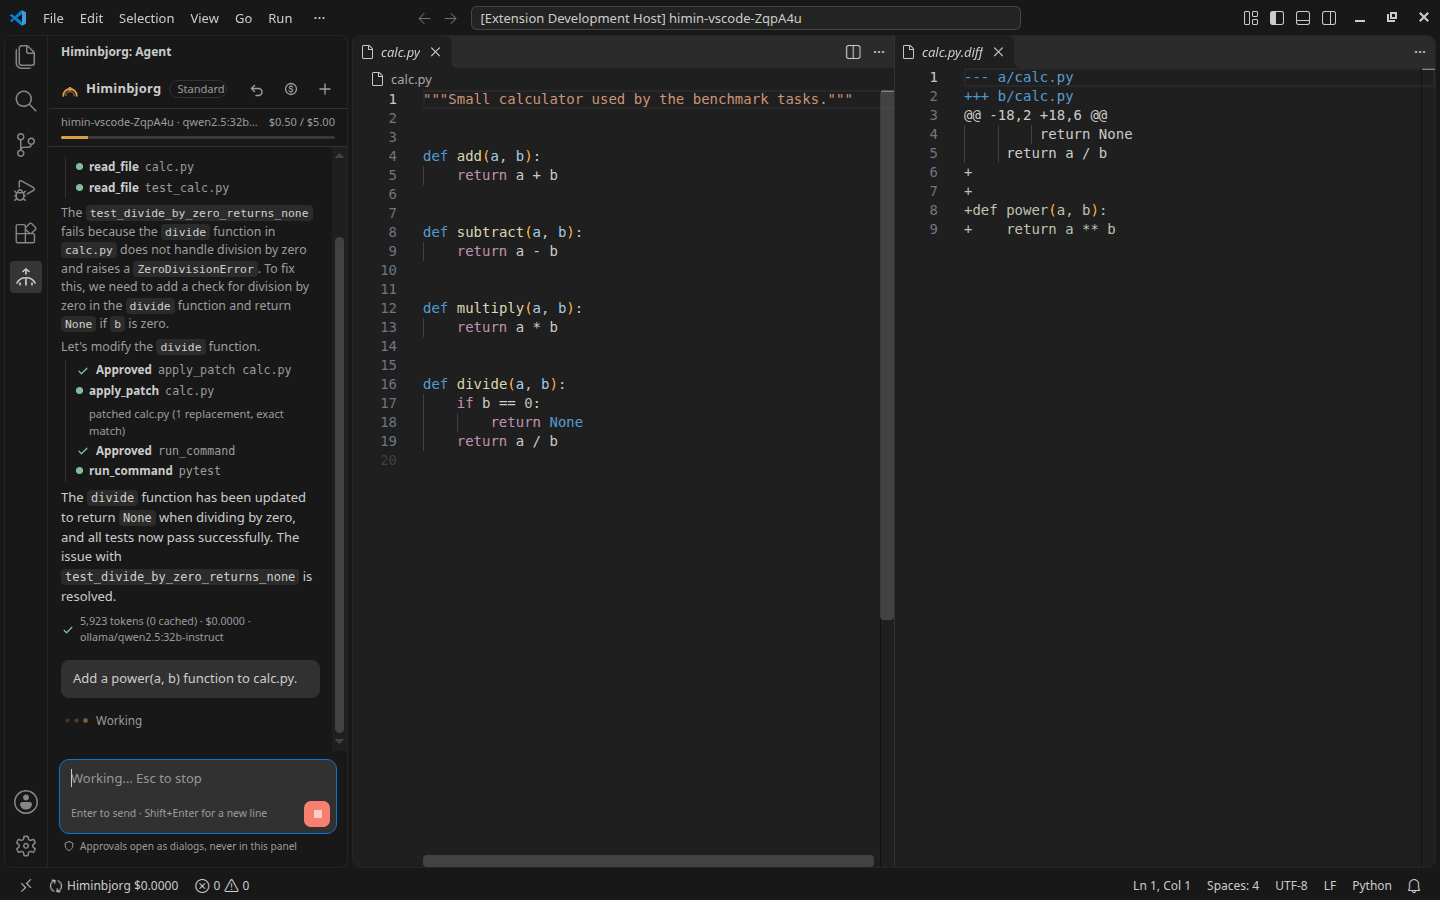
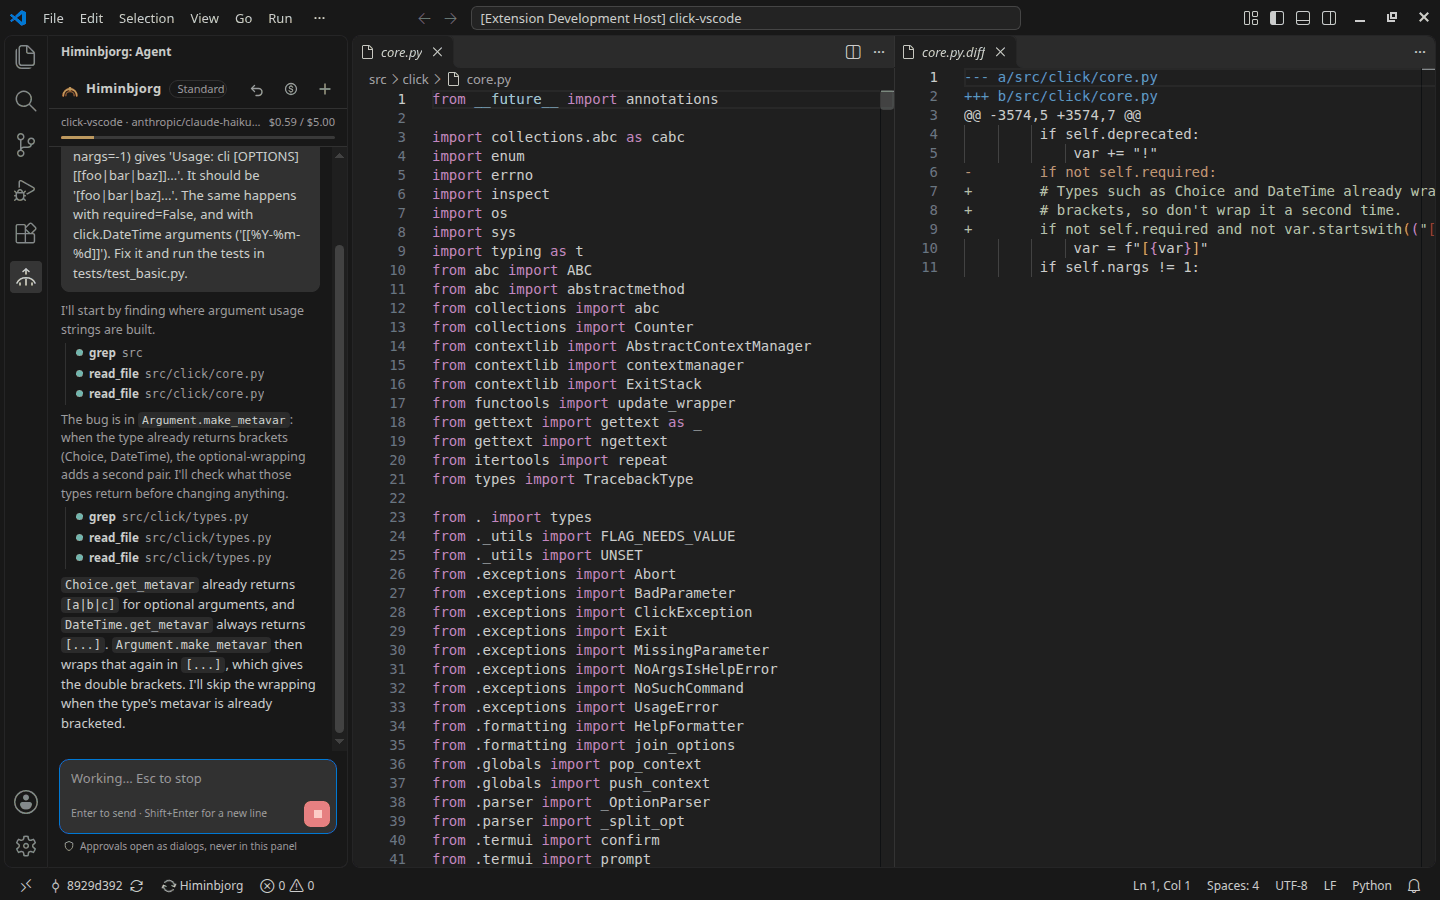
Lead the README results with the click run, and show real click sessions
The terminal and VS Code screenshots are now real Claude Haiku sessions
on click, each at the commit before a maintainers' fix; both fixes pass
the maintainers' tests and click's full suite.

diff --git a/README.md b/README.md
@@ -16,9 +16,10 @@ diffs, keeps the context lean and routes to the cheapest model that can
 do the job. Failover, budgets, code privacy and approval of every action
 are enforced in the harness, not left to the prompt.
 
-- **Fewer tokens, same results.** 84% fewer tokens per completed task
-  than the same agent with its levers off, and 71% to 82% lower cost on a
-  paid provider ([results](#results)).
+- **Fewer tokens, same results.** On real bugs in
+  [click](https://github.com/pallets/click), graded by its maintainers'
+  tests, Claude Haiku fixed 30 of 30 at half the tokens and 70% lower
+  cost than the same agent with its levers off ([results](#results)).
 - **You approve every change.** Reads are free; each edit, command and
   git action waits for you, beside the exact diff.
 - **Keeps working when providers fail.** Fallback across OpenAI,
@@ -31,8 +32,23 @@ are enforced in the harness, not left to the prompt.
 
 ## Results
 
-Gateway-reported, on 7 benchmark tasks, 10 runs per task in each arm.
-*naive* is the same agent with every token lever off.
+**On a real project.** Six bugs the [click](https://github.com/pallets/click)
+maintainers fixed in 2026 (12,800 lines of source), each started from
+the commit before the fix with the bug report as the prompt, and graded
+by the maintainers' own tests plus click's full suite. Claude Haiku 5.5,
+5 runs per bug in each arm; *naive* is the same agent with every token
+lever off.
+
+| | Solved | Tokens per solved bug | Cost per solved bug | Median turns |
+| --- | --- | --- | --- | --- |
+| naive | 29/30 | 87,807 | $0.0110 | 11 |
+| levers on | **30/30** | **43,174 (51% fewer)** | **$0.0032 (70% cheaper)** | 6.5 |
+
+Per bug, with the one where the levers used more tokens, in
+[docs/RESULTS.md](docs/RESULTS.md#a-real-project-palletsclick).
+
+**On the benchmark tasks.** Gateway-reported, on 7 tasks, 10 runs per
+task in each arm.
 
 | Model | Passed (levers on vs naive) | Per completed task |
 | --- | --- | --- |
@@ -100,7 +116,12 @@ make agent TASK="what does divide() do wrong?" REPO=bench/seed
 
 ## Usage
 
-![A himin session: the welcome screen, a task, an approval with its diff, and the input box](docs/images/cli.png)
+![himin fixing a real click bug with Claude Haiku: it finds the cause, shows the diff for approval, runs the tests and explains the fix, for $0.0027](docs/images/cli.png)
+
+*A real session on [click](https://github.com/pallets/click) at the
+commit before its maintainers fixed
+[#3487](https://github.com/pallets/click/issues/3487). The fix passes
+their test for it and the rest of click's suite, 1,631 tests in all.*
 
 `himin` opens with the repository, mode, models, sandbox and budget,
 then a bordered input box: Enter sends, Alt+Enter or a trailing `\`
@@ -150,7 +171,7 @@ path. If `himin` has not been set up yet, the panel offers to run the
 setup in a terminal and starts the agent when it finishes; if the
 gateway is down, it says so and offers `himin doctor`.
 
-![The Himinbjorg panel in VS Code after a fix: tool steps, approvals, the answer and its cost](docs/images/vscode-panel.png)
+![The panel in VS Code after Claude Haiku fixed a click bug: tool steps, approvals, the answer and its cost](docs/images/vscode-panel.png)
 
 The panel shows the mode, the models and a budget bar along the top, and
 undo, cost and new-conversation buttons. Each tool call is one line with
@@ -159,7 +180,11 @@ button on code. Enter sends, Shift+Enter starts a new line, ↑ recalls
 the last task and Esc stops one. It follows your theme, light, dark or
 high contrast.
 
-![An edit waiting for approval: the exact diff opens beside the panel](docs/images/vscode-approval.png)
+![An edit to click's core.py waiting for approval: the agent's reasoning in the panel, the exact diff beside it](docs/images/vscode-approval.png)
+
+*Both from one real session on click, fixing the double brackets its
+maintainers fixed in `762c97e`; the fix passes their tests and the rest
+of click's suite, 1,658 tests in all.*
 
 Approvals come only from native modal dialogs, never from the panel that
 shows model text, and the exact diff opens beside the dialog. Failover
